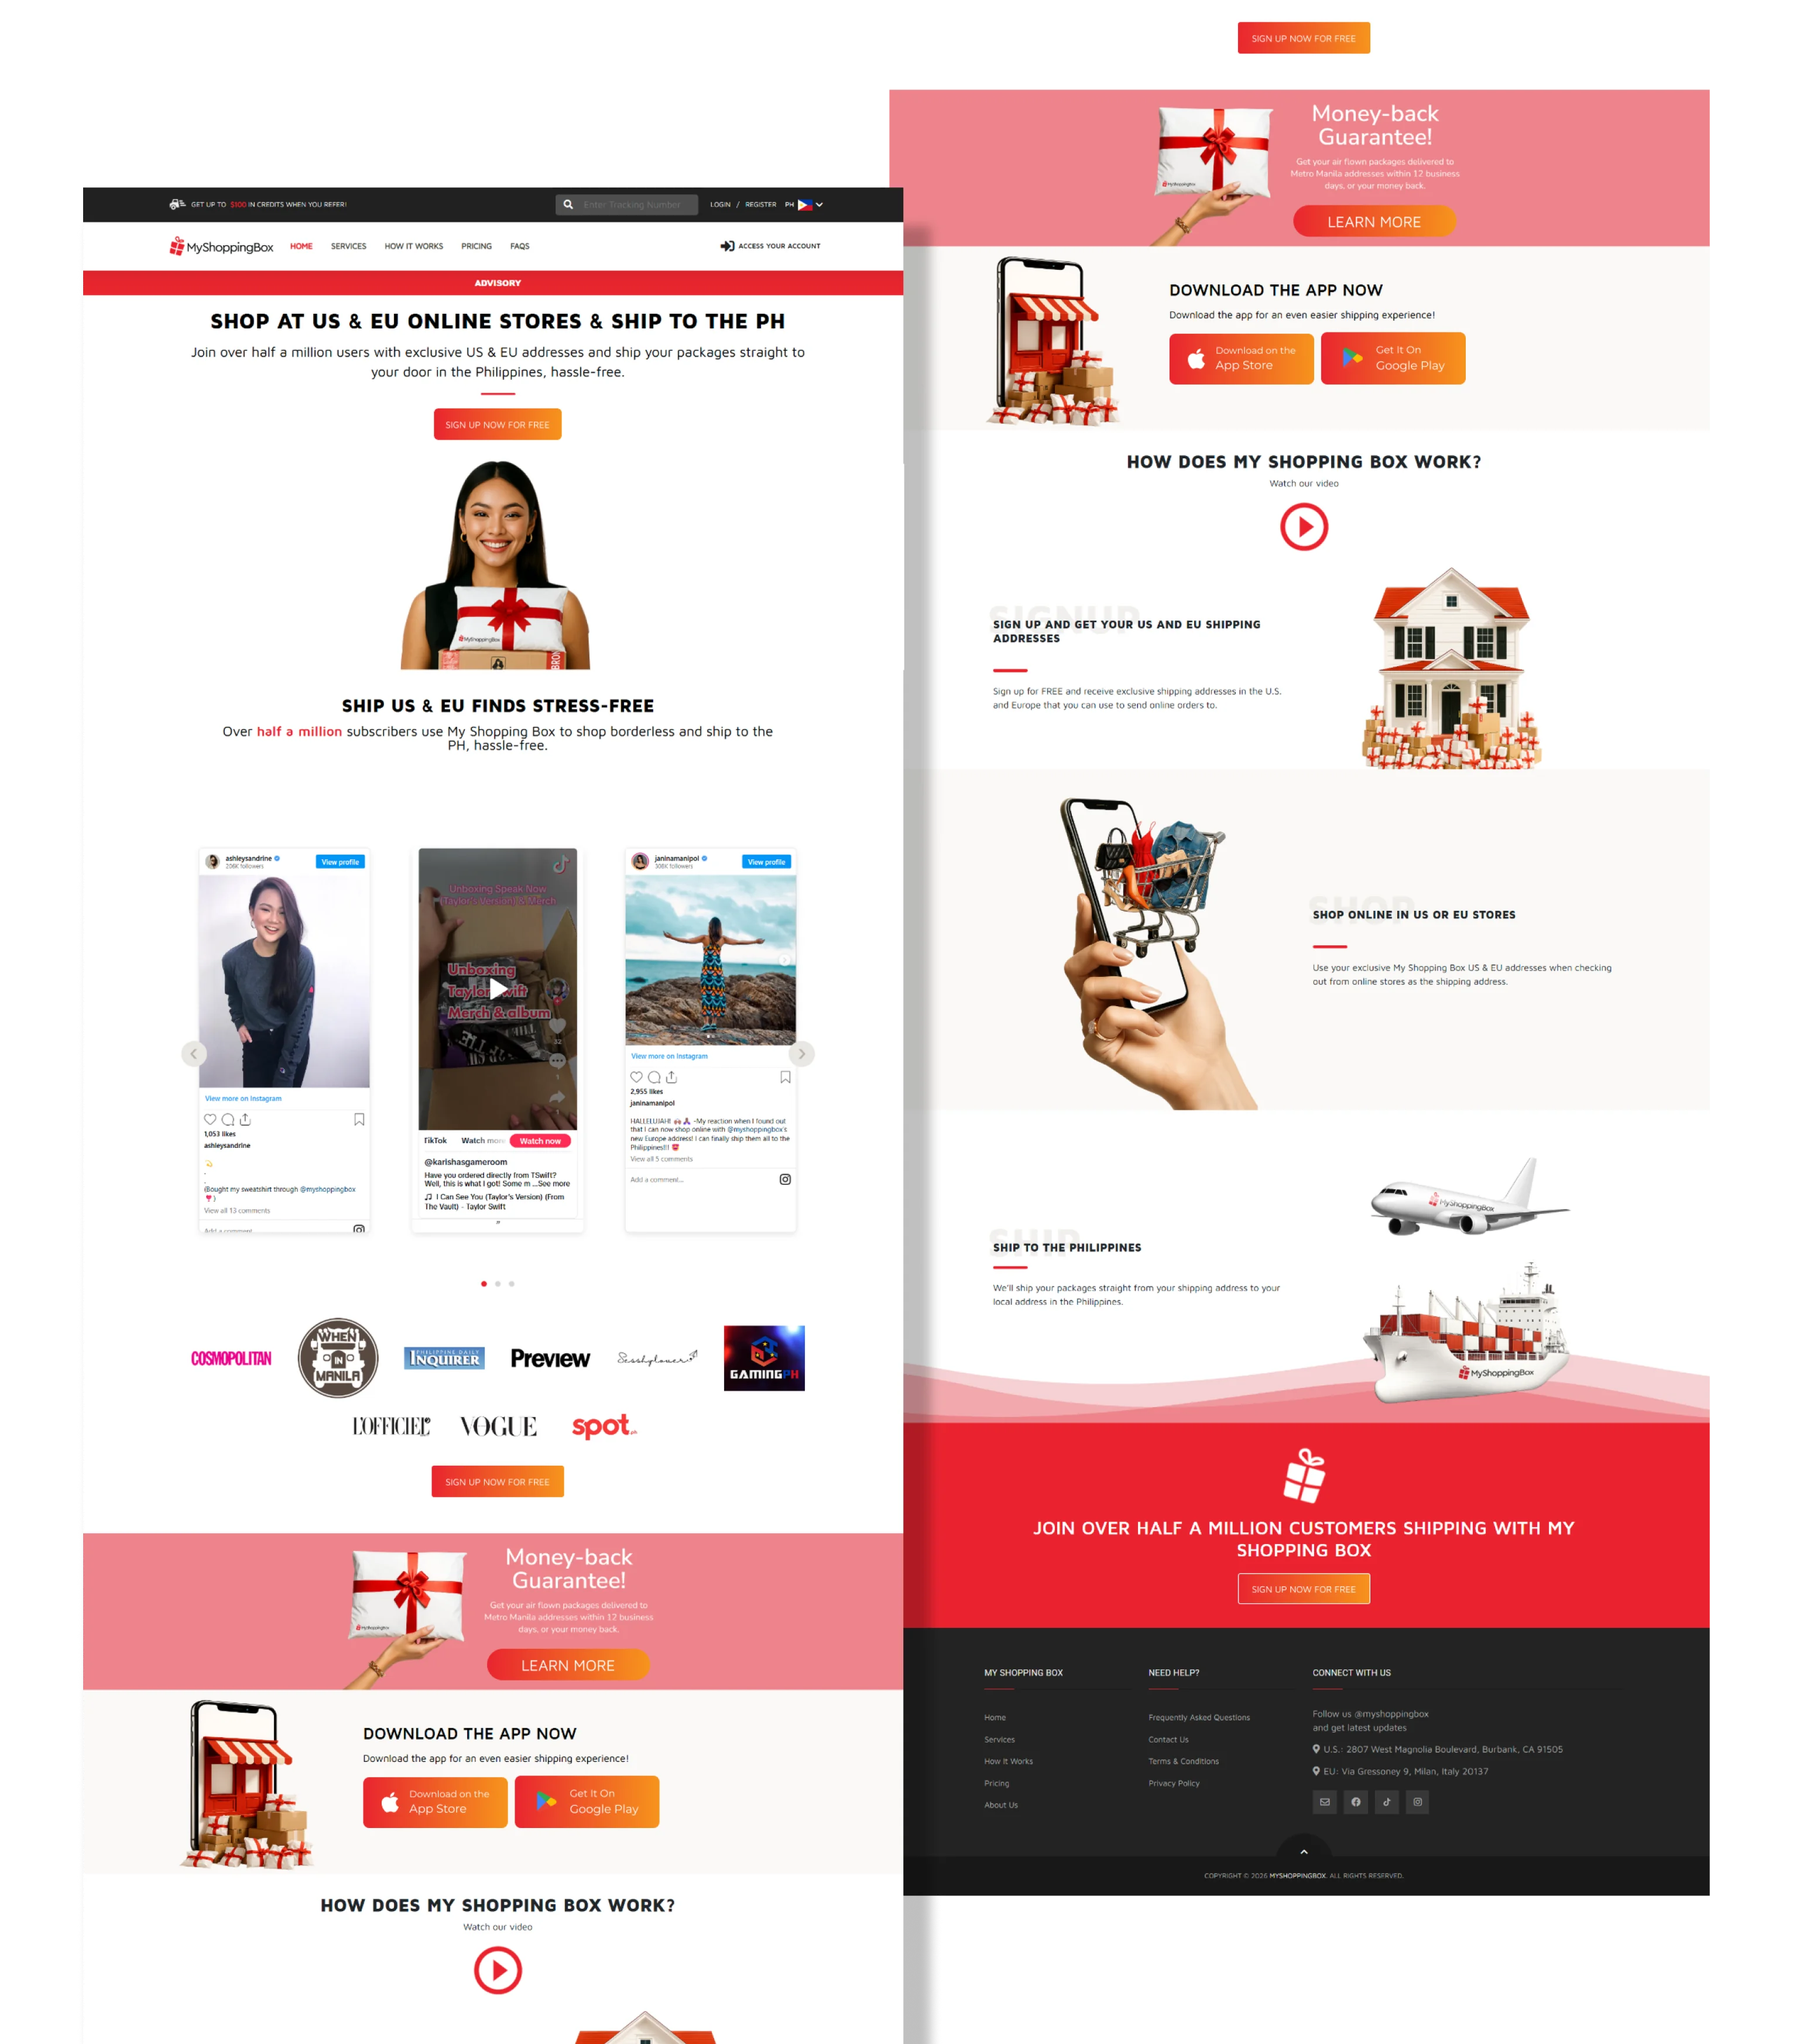
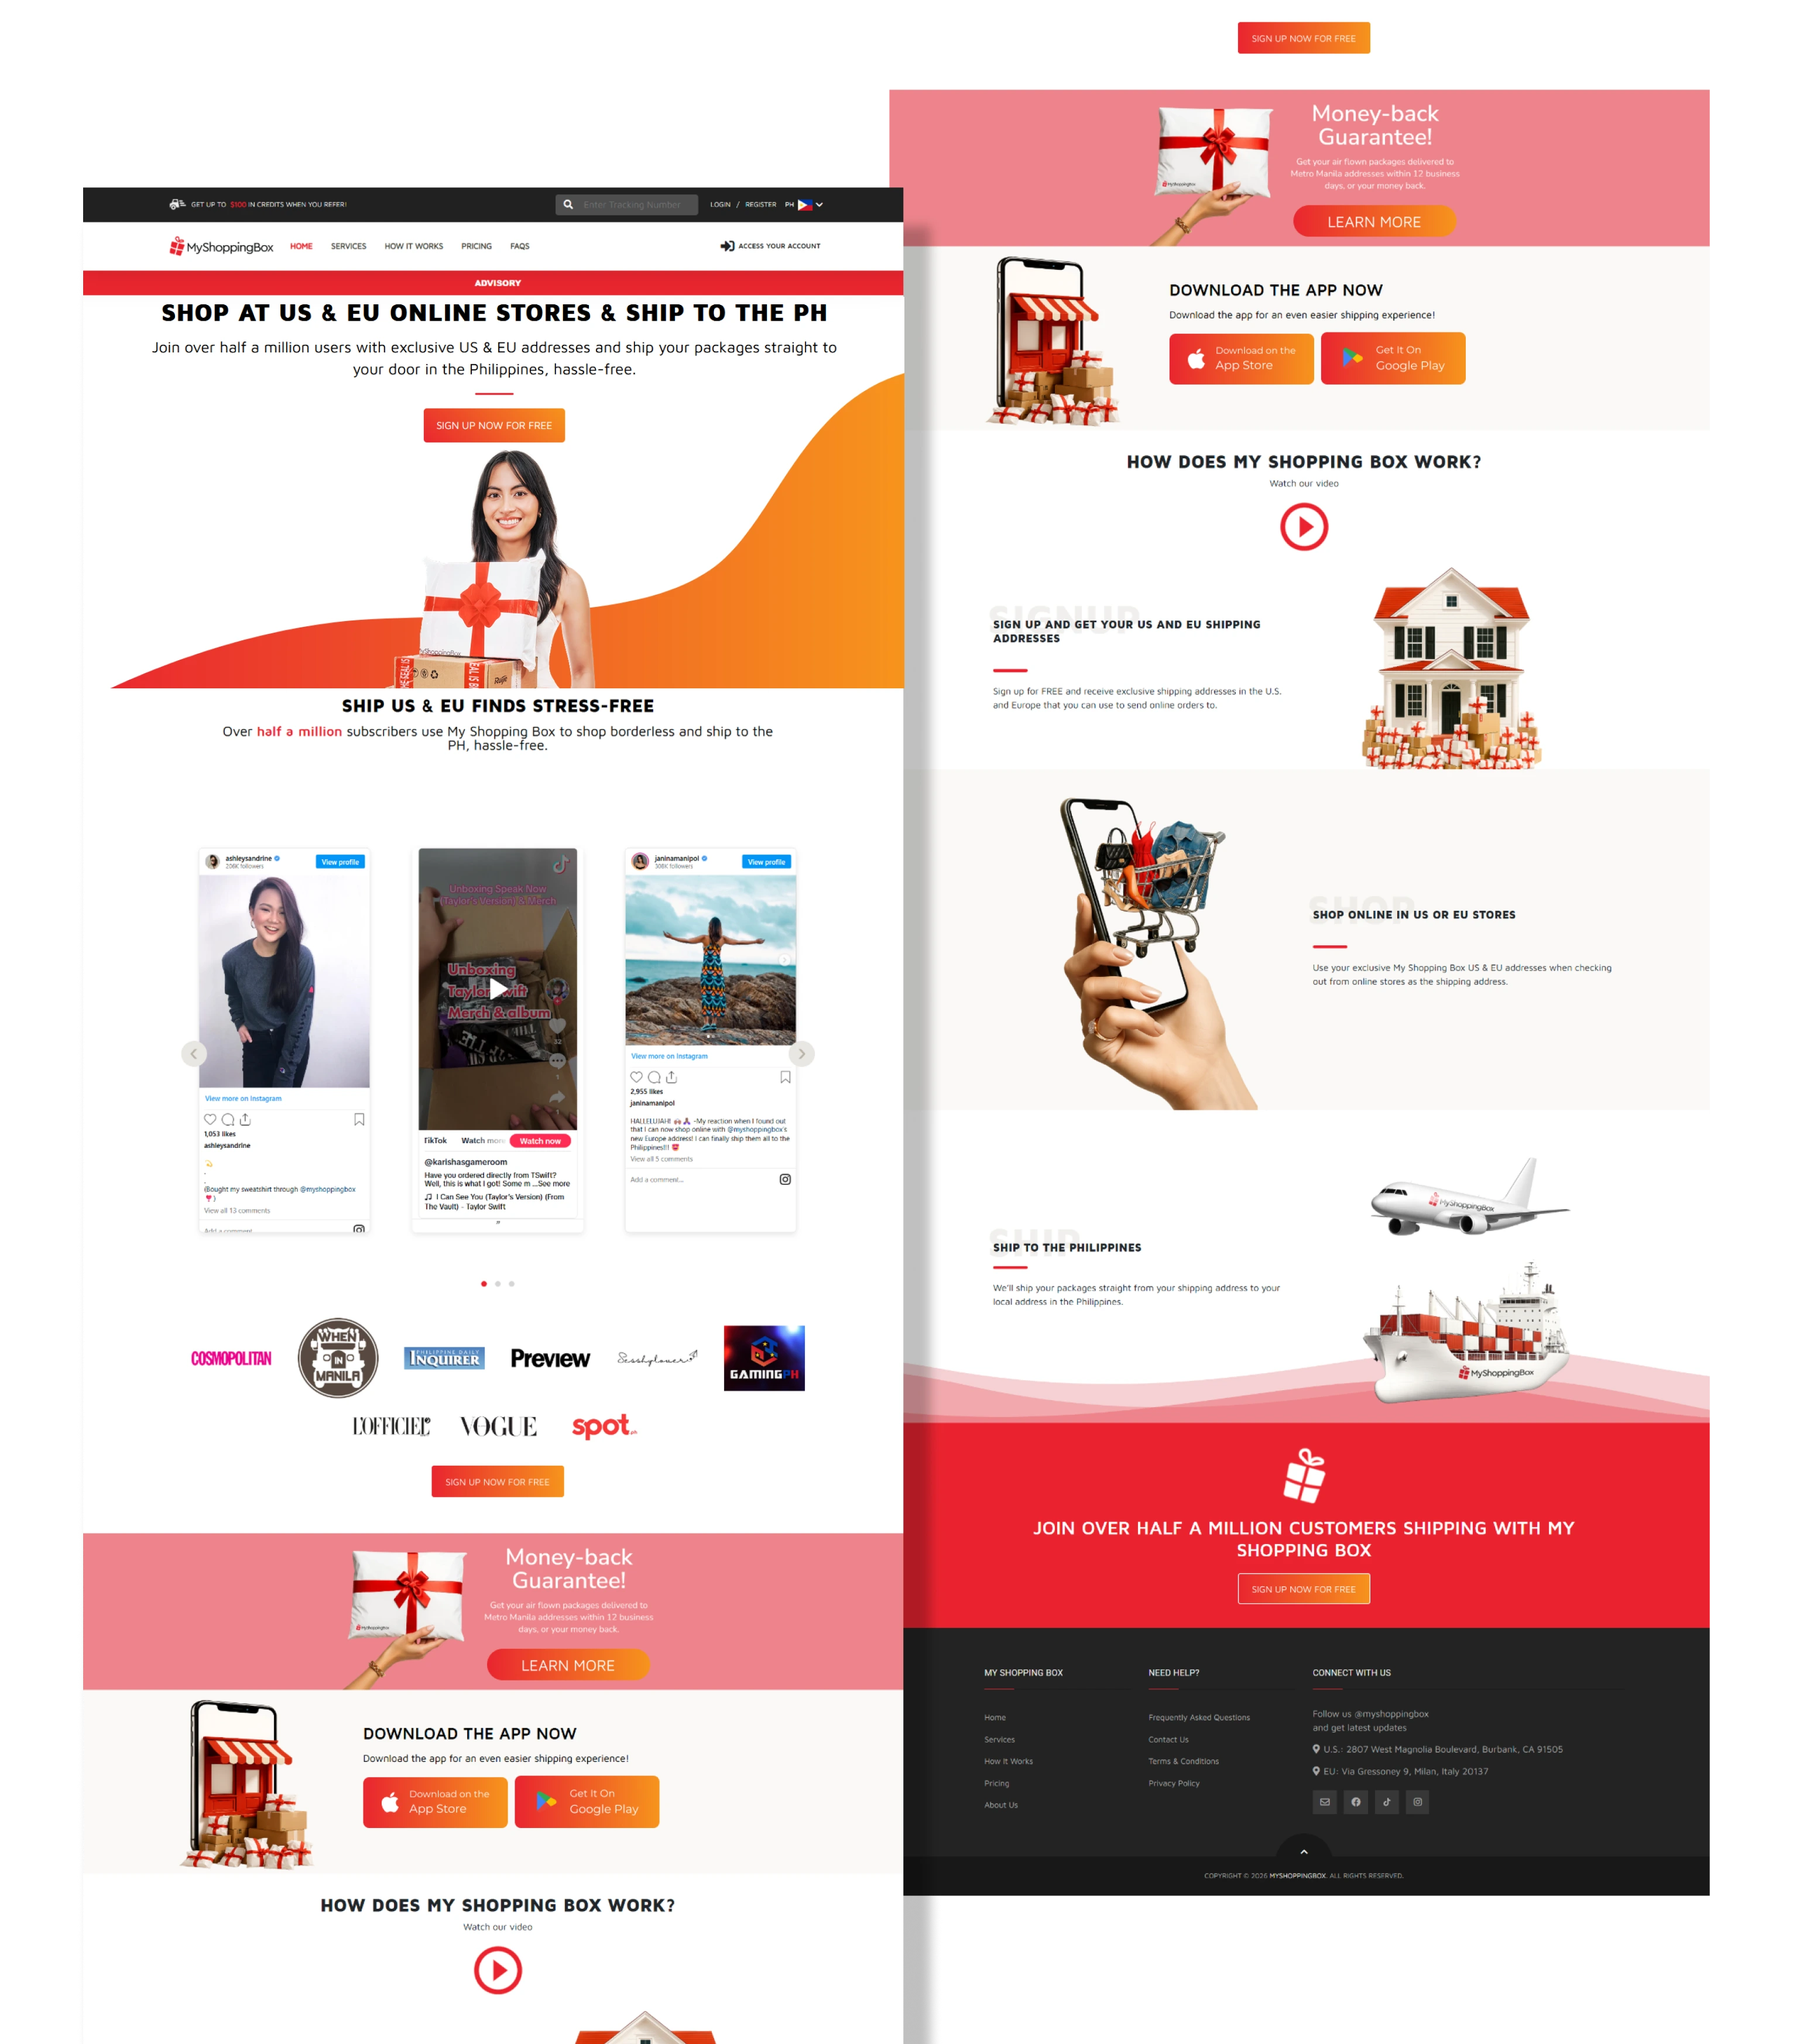
additional fixes

Changed region(s): [[0.062, 0.1249, 0.5273, 0.3434]]

diff --git a/jz-portfolio/src/sections/Projects.vue b/jz-portfolio/src/sections/Projects.vue
@@ -89,8 +89,8 @@ import FloatingCodeSymbols from '@/components/FloatingCodeSymbols.vue'
 import vibeThumbnail from '@/assets/images/vibeteams-thumbnail.webp'
 import cozyImage from '@/assets/images/cozy.webp'
 import vibeTeams from '@/assets/images/vibeteams.webp'
-import adrianThumbnail from '@/assets/images/adrian-thumbnail.webp'
 import prestigeThumbnail from '@/assets/images/prestige-thumbnail.webp'
+import msbThumbnail from '@/assets/images/msb-thumbnail.webp'
 import synerpark from '@/assets/images/synerpark.webp'
 import msb from '@/assets/images/msb.webp'
 import prestige from '@/assets/images/prestige.webp'
@@ -138,24 +138,24 @@ const featuredProjects = [
     developedWith: 'Vue',
   },
   {
-    title: "Adrian's Portfolio",
-    image: adrianThumbnail,
-    modalImage: portfolio,
-    tag: 'Personal',
-    desc: 'Personal portfolio featuring curated design projects in a clean, interactive layout.',
-    role: 'Designer & Developer',
+    title: "My Shopping Box",
+    image: msbThumbnail,
+    modalImage: msb,
+    tag: 'Coreproc',
+    desc: 'E-commerce product showcase with editorial-style layout and brand-forward identity.',
+    role: 'Frontend Developer',
     outcome:
-      'A fully custom portfolio built without a template — designed and shipped solo to showcase design sensibility.',
+      'Built a scalable product showcase that supports a growing SKU catalog with consistent brand presentation.',
     contributions: [
-      'Designed in Figma from scratch',
-      'Built with TSX & Tailwind',
-      'Implemented scroll-based animations',
-      'Deployed to Vercel',
+      'Developed Blade-based frontend templates',
+      'Built reusable product card components',
+      'Ensured cross-browser compatibility',
+      'Optimized image loading performance',
     ],
-    techs: ['Web', 'Portfolio'],
-    url: 'https://lemonadezzz.vercel.app/',
+    techs: ['E-commerce'],
+    url: 'https://my-shoppingbox.com/ph',
     projectType: 'development',
-    developedWith: 'TSX',
+    developedWith: 'Blade',
   },
   {
     title: 'Prestige Paper Products',
@@ -199,23 +199,23 @@ const moreProjects = [
     developedWith: 'Nuxt',
   },
   {
-    title: 'My Shopping Box',
-    image: msb,
-    tag: 'Coreproc',
-    desc: 'E-commerce product showcase with editorial-style layout and brand-forward identity.',
-    role: 'Frontend Developer',
+    title: "Adrian's Portfolio",
+    image: portfolio,
+    tag: 'Personal',
+    desc: 'Personal portfolio featuring curated design projects in a clean, interactive layout.',
+    role: 'Designer & Developer',
     outcome:
-      'Built a scalable product showcase that supports a growing SKU catalog with consistent brand presentation.',
+      'A fully custom portfolio built without a template — designed and shipped solo to showcase design sensibility.',
     contributions: [
-      'Developed Blade-based frontend templates',
-      'Built reusable product card components',
-      'Ensured cross-browser compatibility',
-      'Optimized image loading performance',
+      'Designed in Figma from scratch',
+      'Built with TSX & Tailwind',
+      'Implemented scroll-based animations',
+      'Deployed to Vercel',
     ],
-    techs: ['E-commerce'],
-    url: 'https://my-shoppingbox.com/ph',
+    techs: ['Web', 'Portfolio'],
+    url: 'https://lemonadezzz.vercel.app/',
     projectType: 'development',
-    developedWith: 'Blade',
+    developedWith: 'TSX',
   },
   {
     title: 'Thirsty Oasis',

diff --git a/jz-portfolio/src/sections/Hero.vue b/jz-portfolio/src/sections/Hero.vue
@@ -22,12 +22,6 @@
         <!-- LEFT COLUMN -->
         <div class="flex flex-col items-center text-center md:items-start md:text-left">
 
-          <!-- Available tag -->
-          <div class="hero-tag fade-up" style="animation-delay:0.1s">
-            <span class="hero-tag-dot" />
-            Available for freelance & full-time
-          </div>
-
           <!-- Headline -->
           <h1 class="hero-headline font-heading fade-up" style="animation-delay:0.25s">
             Designer. Developer. <br/>No asterisk.
@@ -73,12 +67,12 @@
 
           <!-- Socials -->
           <div class="flex items-center justify-center gap-3 mt-6 md:justify-start fade-up" style="animation-delay:0.92s">
-            <span class="font-mono text-xs tracking-widest uppercase social-label">Find me on</span>
+            <span class="font-mono text-sm tracking-widest uppercase social-label">Find me on</span>
             <a href="https://www.linkedin.com/in/almoitejuliazyrene/" target="_blank" class="hero-social-btn group" title="LinkedIn">
-              <Linkedin class="w-3.5 h-3.5 text-white group-hover:text-white transition-colors" />
+              <Linkedin class="w-4 h-4 text-white transition-colors group-hover:text-white" />
             </a>
             <a href="https://github.com/zytanas" target="_blank" class="hero-social-btn group" title="GitHub">
-              <Github class="w-3.5 h-3.5 text-white group-hover:text-white transition-colors" />
+              <Github class="w-4 h-4 text-white transition-colors group-hover:text-white" />
             </a>
           </div>
         </div>
@@ -159,29 +153,7 @@ const scrollToWork = () => {
   );
 }
 
-/* ── AVAILABLE TAG ── */
-.hero-tag {
-  display: inline-flex;
-  align-items: center;
-  gap: 0.5rem;
-  padding: 0.35rem 1rem;
-  background: rgba(34, 197, 94, 0.11);
-  border: 1px solid rgba(34, 197, 94, 0.986);
-  border-radius: 999px;
-  font-family: 'JetBrains Mono', 'Courier New', monospace;
-  font-size: 0.75rem;
-  letter-spacing: 0.04em;
-  margin-bottom: 1.75rem;
-}
-.hero-tag-dot {
-  display: block;
-  width: 7px; height: 7px;
-  border-radius: 50%;
-  background: #22c55e; box-shadow: 0 0 5px #22c55e;
-  box-shadow: 0 0 6px #2DD4BF;
-  animation: pulse-dot 2s ease-in-out infinite;
-  flex-shrink: 0;
-}
+
 
 /* ── HEADLINE ── */
 .hero-headline {
@@ -281,7 +253,7 @@ const scrollToWork = () => {
 /* ── SOCIALS ── */
 .social-label { color: rgb(240, 237, 248); }
 .hero-social-btn {
-  width: 32px; height: 32px;
+  width: 36px; height: 36px;
   border-radius: 8px;
   background: rgba(123, 92, 250, 0.08);
   border: 1px solid rgba(123, 92, 250, 0.2);

diff --git a/jz-portfolio/src/sections/Footer.vue b/jz-portfolio/src/sections/Footer.vue
@@ -40,9 +40,6 @@
         <p class="font-mono footer-copy">
           &copy; {{ currentYear }} Julia Almoite. All rights reserved.
         </p>
-        <p class="font-mono footer-made">
-          Designed &amp; built with <span class="coffee">☕</span> in Baguio City
-        </p>
       </div>
 
     </div>
@@ -128,9 +125,4 @@ const scrollToTop = () => {
   font-size: 12px; letter-spacing: 0.1em;
   color: rgb(167, 139, 250);
 }
-.footer-made {
-  font-size: 12px; letter-spacing: 0.08em;
-  color: rgb(240, 237, 248);
-}
-.coffee { color: rgb(124, 92, 250); }
 </style>
